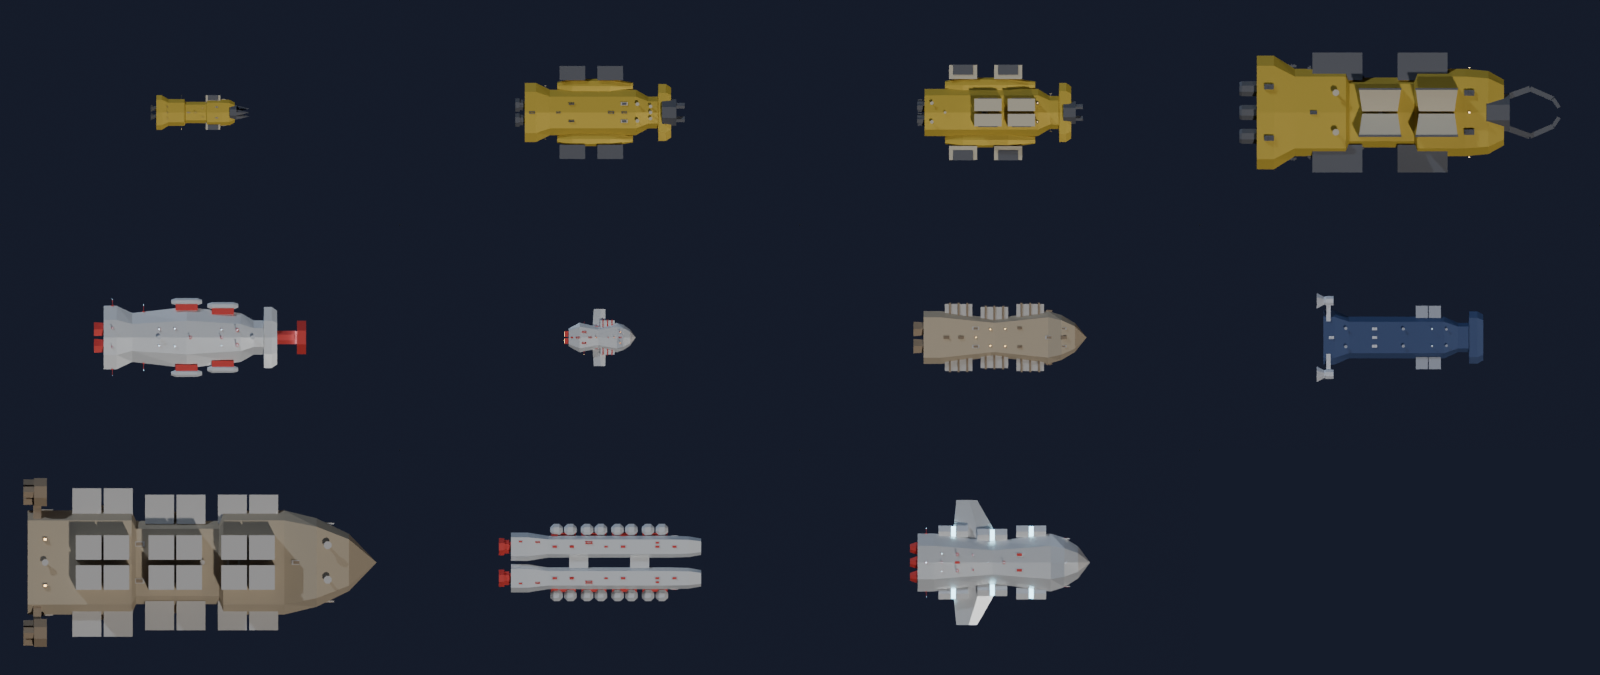
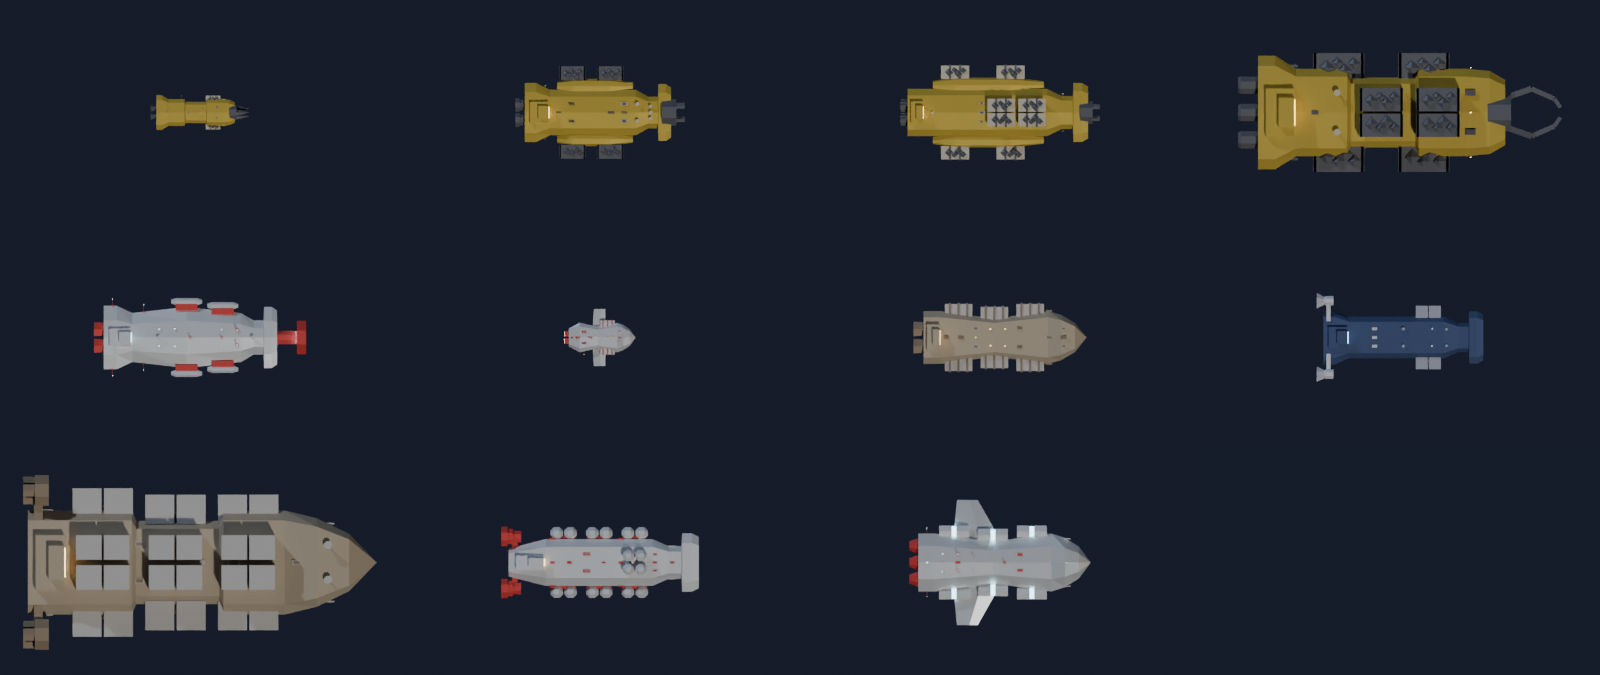
Review points: ore bins with ore, distinct miner_m_hauler, bigger engines, command bridge
- ore_hopper / ore_skip are open bins heaped with faceted ore lumps; on roof sockets
  they are turned upright (rigid move of the side build space, same volume) so the
  ore faces up; hopper rim no longer pokes 2 % out of the build space
- new ModuleDesignTest: every module design inside its build space on side and roof
  sockets, closed meshes; upright bins keep their volume on the roof
- miner_m_hauler: 32 m slim hull with sponson mid pinned. It shared miner_m's seed
  streams (same class, mining and cargo type), so it got the same hulls per seed.
- engines on big models fill more of the tail: miner_l 4.6, hauler_l 6.0, tanker_m 3.6,
  liner_m 2.8; big models still accelerate slower than their medium siblings
- freighters and miners from 20 m (mono/fork) get a command bridge on the tail roof:
  deck house, raised bridge, lit window band. Part of the hull, pure looks (hull stats
  come from the reference hull), ends before the roof module sockets.
- lineup renders and shop stats regenerated; docs updated

Claude-Session: https://claude.ai/code/session_0189xRjiiTMx3apXWGHbTKDT

diff --git a/shipgen/kit/module_designs.py b/shipgen/kit/module_designs.py
@@ -4,6 +4,8 @@ Local frame at the socket: ``n`` = socket normal (out of the hull), ``t`` = alon
 the ship (+Y), ``u`` = up (+Z). Contract (the module's build space):
 n in [-EMBED, DEPTH], t in [-HALF_LENGTH, HALF_LENGTH], u in [-HALF_HEIGHT, HALF_HEIGHT],
 times the socket radius; closed pieces; mirrored sockets give mirrored modules.
+On roof sockets ``u`` points outboard, except for ``UPRIGHT`` designs (open bins), whose
+side-socket build space is turned upright onto the roof instead.
 Materials: 0 accent, 1 glow, 2 cargo.
 """
 
@@ -18,11 +20,17 @@ EMBED, DEPTH, HALF_LENGTH, HALF_HEIGHT = 0.1, 0.9, 1.0, 0.5
 
 
 class Frame:
-    def __init__(self, pos, normal, m):
+    def __init__(self, pos, normal, m, upright=False):
         self.o, self.n, self.m = Vector(pos), Vector(normal).normalized(), m
         self.t = Vector((0, 1, 0))
-        if abs(self.n.z) > 0.9:  # roof socket: "up" of the module points outboard, so mirrored
-            self.u = Vector((1.0 if self.o.x >= 0 else -1.0, 0, 0))  # sockets give mirrored modules
+        if abs(self.n.z) > 0.9:  # roof socket
+            outboard = Vector((1.0 if self.o.x >= 0 else -1.0, 0, 0))
+            if upright:  # open-topped designs stay upright: the side-socket build space, turned so
+                # its n points outboard and its u up, shifted onto the roof (a rigid move: same volume)
+                self.o = self.o + (-outboard * (0.5 * DEPTH - 0.5 * EMBED) + self.n * (HALF_HEIGHT - EMBED)) * m
+                self.n, self.u = outboard, Vector((0, 0, 1))
+            else:  # "up" of the module points outboard, so mirrored sockets give mirrored modules
+                self.u = outboard
         else:
             self.u = Vector((0, 0, 1))
 
@@ -63,14 +71,40 @@ def double_container(bm, f):
     _box(bm, f, -EMBED, 0.3, -0.1, 0.1, -0.2, 0.2, material=ACCENT)  # coupling
 
 
+# ore heaped over the rim of open bins: (n, t, size) of faceted lumps
+ORE_PILE = ((0.35, -0.45, 0.3), (0.25, 0.2, 0.3), (0.5, 0.55, 0.24), (0.52, -0.05, 0.22))
+
+
+def _rock(bm, f, n, t, u, size, material=ACCENT):
+    """Faceted ore lump: an irregular octahedron (closed, 8 triangles), flattened in u."""
+    shape = ((0.9, 0, 0), (-1.0, 0.1, 0), (0, 1.1, 0.05), (0.1, -0.85, 0), (0, 0, 0.6), (0.05, -0.1, -0.5))
+    v = [bm.verts.new(f.p(n + size * a, t + size * b, u + size * c)) for a, b, c in shape]
+    for i, j, k in ((0, 2, 4), (2, 1, 4), (1, 3, 4), (3, 0, 4), (2, 0, 5), (1, 2, 5), (3, 1, 5), (0, 3, 5)):
+        bm.faces.new((v[i], v[j], v[k])).material_index = material
+
+
+def _ore(bm, f, rim_u):
+    for n, t, size in ORE_PILE:
+        _rock(bm, f, n, t, rim_u + 0.1 - 0.2 * size, size)
+
+
 def ore_hopper(bm, f):
-    _box(bm, f, -EMBED, 0.9, -0.9, 0.9, -0.5, 0.45, taper=0.45)
-    _box(bm, f, -EMBED, 0.92, -0.92, 0.92, 0.42, 0.5, material=ACCENT)  # rim
+    """V-shaped funnel bin, open at the top, with ore heaped over the rim."""
+    _box(bm, f, -EMBED, 0.88, -0.9, 0.9, -0.5, 0.25, taper=0.45)
+    _box(bm, f, -EMBED, 0.9, -0.92, 0.92, 0.2, 0.28, material=ACCENT)  # rim
+    for t in (-0.88, 0.88):  # end frames
+        _box(bm, f, -EMBED, 0.9, t - 0.06, t + 0.06, -0.3, 0.28, material=ACCENT)
+    _ore(bm, f, rim_u=0.28)
 
 
 def ore_skip(bm, f):
-    _box(bm, f, -EMBED, 0.88, -0.98, 0.98, -0.45, 0.45)
-    _box(bm, f, 0.2, 0.9, -0.7, 0.7, 0.45, 0.5, material=ACCENT)  # hatch
+    """Mining skip: a tub with sloped ends, strapped, carrying ore."""
+    n0, n1, u0, u1 = -EMBED, 0.84, -0.45, 0.22
+    _hexa(bm, f, [(n0, -0.65, u0), (n1, -0.65, u0), (n1, 0.65, u0), (n0, 0.65, u0),
+                  (n0, -0.98, u1), (n1, -0.98, u1), (n1, 0.98, u1), (n0, 0.98, u1)], CARGO)
+    for t in (-0.35, 0.35):  # straps
+        _box(bm, f, -EMBED, 0.9, t - 0.07, t + 0.07, u0 - 0.03, u1 + 0.04, material=ACCENT)
+    _ore(bm, f, rim_u=u1)
 
 
 def _cyl(bm, f, n, u, radius, t0, t1, sides=8, cones=True, material=CARGO):
@@ -123,5 +157,9 @@ def designs_of(kind: str) -> list[int]:
     return [i for i, name in enumerate(NAMES) if KIND[name] == kind]
 
 
+UPRIGHT = {"ore_hopper", "ore_skip"}  # open bins: kept open side up on roof sockets too
+
+
 def build(bm, design: int, pos, normal, radius: float) -> None:
-    DESIGNS[design % len(DESIGNS)](bm, Frame(pos, normal, radius))
+    fn = DESIGNS[design % len(DESIGNS)]
+    fn(bm, Frame(pos, normal, radius, upright=fn.__name__ in UPRIGHT))

diff --git a/shipgen/kit/__init__.py b/shipgen/kit/__init__.py
@@ -252,7 +252,7 @@ def _build_once(p, cls, stream, design, engine_design, rig_design, module_design
 
     hull_bm = bmesh.new()
     parts_bm = bmesh.new()  # engines, pylons, rigs, modules (material 0 accent, 1 glow, 2 cargo)
-    hull = _build_hull(p, design, fr, hull_bm, parts_bm)
+    hull = _build_hull(p, cls, design, fr, hull_bm, parts_bm)
     rig_design, module_design, instances = _place_parts(p, stream, design, fr, hull, parts_bm, engine_design,
                                                         rig_design, module_design)
     warnings = hull.warnings
@@ -315,7 +315,7 @@ def _build_once(p, cls, stream, design, engine_design, rig_design, module_design
     return ship
 
 
-def _build_hull(p, design: Design, fr: _Frame, hull_bm, parts_bm) -> _Hull:
+def _build_hull(p, cls, design: Design, fr: _Frame, hull_bm, parts_bm) -> _Hull:
     """Loft the bodies and their add-ons; collect sockets, obstacles and collision pieces."""
     length, body_height, chamfer, ridge, module = fr.length, fr.body_height, fr.chamfer, fr.ridge, fr.module
     n_eng, r_req = p["engines"]["count"], 0.5 * p["engines"]["size"]
@@ -398,6 +398,9 @@ def _build_hull(p, design: Design, fr: _Frame, hull_bm, parts_bm) -> _Hull:
         else:
             h.sockets += _side_sockets(lay, length, module, 0.0)
         h.sockets += _top_sockets(lay, length, module, chamfer, ridge)
+        if cls in BRIDGE_CLASSES and length >= BRIDGE_MIN_LENGTH:
+            for fn, box in _bridge(hull_bm, lay, fr):
+                add_on(h, hull_bm, fn, box)
         if design.plan == "fork":
             pw = 0.3 * front.half_width
             y0, y1 = lay.y_front - 0.08 * length, lay.y_front + 0.22 * length
@@ -415,6 +418,33 @@ def _build_hull(p, design: Design, fr: _Frame, hull_bm, parts_bm) -> _Hull:
     for i, sk in enumerate(h.sockets):
         sk.name = sk.name or f"Socket_{sk.kind}_{i}"
     return h
+
+
+BRIDGE_CLASSES = {"freighter", "miner"}
+BRIDGE_MIN_LENGTH = 20.0
+
+
+def _bridge(hull_bm, lay: HullLayout, fr: _Frame):
+    """Command bridge on the tail roof, like a cargo ship's: a deck house with a raised bridge
+    and a lit window band facing forward. Pure looks (hull stats come from the reference hull);
+    it stays behind the mid section, so roof modules never reach it. Yields (builder, obstacle)."""
+    y_a = lay.y_mid[0]
+    span = y_a - lay.y_tail
+    y0, y1 = lay.y_tail + 0.2 * span, y_a - 0.05 * span
+    sts = [section_at(lay, y, fr.length) for y in (y0, 0.5 * (y0 + y1), y1)]
+    roof_w = min(st.half_width for st in sts) * (1.0 - 0.7 * fr.chamfer)
+    roof_z = min(st.top for st in sts) * (1.0 - 0.6 * fr.ridge)
+    sink = 0.05 * fr.body_height  # sits into the roof, so no gap shows on ridged roofs
+    h1, h2 = 0.24 * fr.body_height, 0.22 * fr.body_height
+    deck = (Vector((0, 0.5 * (y0 + y1), roof_z + 0.5 * (h1 - sink))), Vector((1.3 * roof_w, y1 - y0, h1 + sink)))
+    yb0 = y0 + 0.45 * (y1 - y0)  # the raised bridge sits on the front of the deck house
+    top_z = roof_z + h1 - 0.5 * sink
+    house = (Vector((0, 0.5 * (yb0 + y1), top_z + 0.5 * h2)), Vector((0.8 * roof_w, y1 - yb0, h2 + 0.5 * sink)))
+    window = (Vector((0, y1 + 0.01 * span, top_z + 0.6 * h2)), Vector((0.7 * roof_w, 0.04 * span, 0.3 * h2)))
+    applies = {"module", "engine", "wing", "rig"}
+    for (c, size), mat in ((deck, 0), (house, 0), (window, 1)):
+        yield (lambda c=c, size=size, mat=mat: shapes.box(hull_bm, c, size, material=mat),
+               Box("bridge_house", c - size / 2, c + size / 2, applies))
 
 
 def _place_parts(p, stream, design, fr: _Frame, hull: _Hull, parts_bm, engine_design, rig_design, module_design):
@@ -496,7 +526,7 @@ def _role_objects(p, coll, root, hull_bm, parts_bm, instances, pylon_verts) -> l
     for inst in instances:
         if inst.live:
             role_verts.setdefault(ROLE_OF[inst.kind], set()).update(v.index for v in inst.verts)
-    pieces = [("Ship_Hull", "hull", hull_bm, ("hull",))]
+    pieces = [("Ship_Hull", "hull", hull_bm, ("hull", "glow"))]  # glow: bridge windows
     for role, idx in role_verts.items():
         if not idx:
             continue

diff --git a/tests/test_kit.py b/tests/test_kit.py
@@ -42,6 +42,49 @@ class EngineDesignTest(unittest.TestCase):
 
 
 @unittest.skipIf(bpy is None, "requires Blender (bpy)")
+class ModuleDesignTest(unittest.TestCase):
+    def build(self, i, pos, normal):
+        from shipgen.kit import module_designs as md
+
+        bm = bmesh.new()
+        md.build(bm, i, pos, normal, 1.0)
+        bmesh.ops.recalc_face_normals(bm, faces=bm.faces)
+        return bm
+
+    def test_designs_honour_the_build_space(self):
+        """Side socket (+X) and roof socket (+Z, right of the centre line): closed, inside the box."""
+        from shipgen.kit import module_designs as md
+
+        for i, name in enumerate(md.NAMES):
+            for where, pos, normal in (("side", (0, 0, 0), (1, 0, 0)), ("roof", (0.5, 0, 0), (0, 0, 1))):
+                with self.subTest(design=name, socket=where):
+                    bm = self.build(i, pos, normal)
+                    self.assertTrue(all(e.is_manifold for e in bm.edges), "open edges")
+                    self.assertFalse(any(f.calc_area() <= 1e-9 for f in bm.faces), "degenerate faces")
+                    for v in bm.verts:
+                        x, y, z = v.co
+                        out, across = (x, z) if where == "side" else (z, x - 0.5)
+                        self.assertGreaterEqual(out, -md.EMBED - 1e-6)
+                        self.assertLessEqual(out, md.DEPTH + 1e-6)
+                        self.assertLessEqual(abs(y), md.HALF_LENGTH + 1e-6)
+                        self.assertLessEqual(abs(across), md.HALF_HEIGHT + 1e-6)
+                    bm.free()
+
+    def test_upright_bins_keep_their_volume_on_the_roof(self):
+        """Stats are normalised on side sockets, so a roof bin must hold exactly as much."""
+        from shipgen.kit import module_designs as md
+
+        for name in md.UPRIGHT:
+            i = md.NAMES.index(name)
+            side, roof = self.build(i, (0, 0, 0), (1, 0, 0)), self.build(i, (0.5, 0, 0), (0, 0, 1))
+            self.assertAlmostEqual(side.calc_volume(), roof.calc_volume(), places=5)
+            top = max(v.co.z for f in roof.faces if f.material_index == md.ACCENT for v in f.verts)
+            self.assertGreater(top, 0.8, f"{name}: ore should heap up on top of a roof bin")
+            side.free()
+            roof.free()
+
+
+@unittest.skipIf(bpy is None, "requires Blender (bpy)")
 class KitShipTest(unittest.TestCase):
     @classmethod
     def setUpClass(cls):
@@ -141,6 +184,16 @@ class KitShipTest(unittest.TestCase):
         everything = self.kit.Box("test", Vector((-1e3,) * 3), Vector((1e3,) * 3), {"engine"})
         ship.obstacles.append(everything)
         self.assertIn(("engine", "test"), self.kit.find_conflicts_after(ship))
+
+    def test_command_bridge_on_long_mono_hulls_only(self):
+        def windows(ship):
+            hull = next(o for o in ship.parts if o["shipgen_role"] == "hull")
+            return sum(1 for poly in hull.data.polygons if poly.material_index == 1)
+
+        self.assertGreater(windows(self.kit.build(self.base, plan="mono")), 0)
+        self.assertEqual(windows(self.kit.build(self.base, plan="twin")), 0)
+        small = dict(self.base, hull=dict(self.base["hull"], length=14))
+        self.assertEqual(windows(self.kit.build(small, plan="mono")), 0)
 
     def test_no_engines_is_not_a_fit_issue(self):
         ship = self.kit.build(dict(self.base, engines=dict(self.base["engines"], count=0)))

diff --git a/docs/shop_stats.md b/docs/shop_stats.md
@@ -3,16 +3,16 @@
 | corvette_11 | corvette | 61.16 | 366.06 | 7.48 | 4.2 | 27780 | 249.65 | 0.0 | 0.0 | 0 | none | 0.0 | 0.0 |
 | fighter_42 | fighter | 11.99 | 6.27 | 26.7 | 76.54 | 870 | 0.0 | 0.0 | 0.0 | 0 | none | 0.0 | 0.0 |
 | freighter_7 | freighter | 40.37 | 314.2 | 17.91 | 15.25 | 12680 | 919.04 | 0.0 | 0.0 | 0 | none | 0.0 | 0.0 |
-| hauler_l_204 | freighter | 61.41 | 1068.68 | 6.94 | 3.88 | 27159 | 5143.3 | 0.0 | 0.0 | 0 | none | 0.0 | 0.0 |
+| hauler_l_204 | freighter | 61.41 | 1097.81 | 8.03 | 4.5 | 27159 | 5143.3 | 0.0 | 0.0 | 0 | none | 0.0 | 0.0 |
 | hauler_m_202 | freighter | 28.68 | 106.19 | 9.71 | 11.64 | 6285 | 465.98 | 0.0 | 0.0 | 0 | none | 0.0 | 0.0 |
 | hauler_m_fast_203 | freighter | 28.13 | 82.29 | 24.86 | 30.39 | 5335 | 273.38 | 0.0 | 0.0 | 0 | none | 0.0 | 0.0 |
 | hauler_s_201 | shuttle | 11.79 | 10.99 | 15.69 | 45.77 | 1236 | 25.93 | 0.0 | 0.0 | 0 | none | 0.0 | 0.0 |
 | interceptor_3 | interceptor | 14.18 | 4.91 | 24.3 | 58.93 | 585 | 0.0 | 0.0 | 0.0 | 0 | none | 0.0 | 0.0 |
-| liner_m_206 | shuttle | 30.33 | 129.3 | 8.2 | 9.29 | 6224 | 206.74 | 0.0 | 0.0 | 16 | none | 0.0 | 0.0 |
+| liner_m_206 | shuttle | 30.33 | 132.6 | 10.88 | 12.33 | 6224 | 206.74 | 0.0 | 0.0 | 16 | none | 0.0 | 0.0 |
 | miner_gas_105 | miner | 30.51 | 130.95 | 7.32 | 8.25 | 8842 | 0.0 | 235.19 | 72.35 | 0 | scoop | 138.65 | 5.09 |
-| miner_l_104 | miner | 43.49 | 599.9 | 4.9 | 3.88 | 22150 | 0.0 | 1955.09 | 0.0 | 0 | claw | 356.07 | 9.97 |
-| miner_m_102 | miner | 25.74 | 95.33 | 8.1 | 10.82 | 6798 | 0.0 | 244.15 | 0.0 | 0 | laser | 96.62 | 47.84 |
-| miner_m_hauler_103 | miner | 25.8 | 99.26 | 6.63 | 8.83 | 6986 | 0.0 | 337.44 | 0.0 | 0 | laser | 71.49 | 41.15 |
-| miner_s_101 | miner | 13.8 | 17.62 | 13.41 | 33.41 | 2101 | 0.0 | 35.26 | 0.0 | 0 | drill | 30.86 | 2.55 |
+| miner_l_104 | miner | 43.49 | 596.84 | 6.52 | 5.15 | 22150 | 0.0 | 1779.16 | 0.0 | 0 | claw | 356.07 | 9.97 |
+| miner_m_102 | miner | 25.74 | 93.96 | 8.22 | 10.97 | 6798 | 0.0 | 229.53 | 0.0 | 0 | laser | 96.62 | 47.84 |
+| miner_m_hauler_103 | miner | 31.76 | 112.35 | 5.86 | 6.34 | 8486 | 0.0 | 347.05 | 0.0 | 0 | laser | 71.49 | 41.15 |
+| miner_s_101 | miner | 13.8 | 17.52 | 13.49 | 33.6 | 2101 | 0.0 | 34.15 | 0.0 | 0 | drill | 30.86 | 2.55 |
 | shuttle_5 | shuttle | 9.15 | 5.71 | 17.53 | 65.82 | 818 | 10.95 | 0.0 | 0.0 | 0 | none | 0.0 | 0.0 |
-| tanker_m_205 | freighter | 33.46 | 112.77 | 11.16 | 11.47 | 6813 | 354.97 | 0.0 | 97.99 | 0 | none | 0.0 | 0.0 |
+| tanker_m_205 | freighter | 33.46 | 116.89 | 13.63 | 14.0 | 6813 | 354.97 | 0.0 | 91.88 | 0 | none | 0.0 | 0.0 |

diff --git a/CLAUDE.md b/CLAUDE.md
@@ -49,7 +49,9 @@ Presets are the ship models a player can buy: size tiers × loadouts (`miner_s/m
 combat/generic ones. The seed only
 changes the look within a model. Every preset must generate without warnings
 (`test_presets_generate_cleanly`); a kit model whose loadout doesn't fit any hull for some seeds
-needs fewer/smaller modules (see `hauler_l`). `kit.*` in a preset pins blocks/designs.
+needs fewer/smaller modules (see `hauler_l`). `kit.*` in a preset pins blocks/designs
+(`miner_m_hauler` pins the sponson mid so it doesn't share `miner_m`'s hulls: models with the
+same class, mining and cargo type share the seed streams).
 
 ## Blender versions
 
@@ -72,14 +74,17 @@ needs fewer/smaller modules (see `hauler_l`). `kit.*` in a preset pins blocks/de
 - `shipgen/generator/` – `__init__.py` (`generate`, `Ship`, `clear`), `hull.py` (class profiles
   incl. cargo zone / hold / armor, `HullShape` that other parts attach to), `wings.py`,
   `engines.py`, `mining.py` (nose rigs), `cargo.py` (modules in symmetric lanes),
-  `shapes.py` (low-poly primitives), `materials.py`. Planned: `greebles.py`.
+  `shapes.py` (low-poly primitives), `materials.py` (classic only; greebles are kit-only).
 - `shipgen/stats.py` – gameplay stats from geometry (see above).
 - `shipgen/kit/` – the default builder: `hull_kit.py` (sections with a standard joint, body plans
   mono/twin/fork, class kits), `engine_designs.py` / `rig_designs.py` / `module_designs.py`
-  (10 each, unit size), `greeble_designs.py` (6, look only), `__init__.py` (`build`: sockets, placement, collision check + resolver,
-  triangle budget, role objects, sockets as empties), `collision.py` (convex `-convcolonly`
+  (10 each, unit size), `greeble_designs.py` (6, look only), `__init__.py` (`build` ->
+  `_build_hull` (bodies, add-ons incl. the command bridge, sockets) -> `_place_parts` ->
+  collision check + resolver -> triangle budget -> greebles -> role objects, sockets as empties),
+  `collision.py` (convex `-convcolonly`
   shapes for Godot), `normalize.py` (stat normalisation). Concept: `docs/parts_kit.md`.
-  Every new part design must honour the unit contract in its module docstring; new hull
+  Every new part design must honour the unit contract in its module docstring
+  (`EngineDesignTest`, `ModuleDesignTest` check it); new hull
   blocks must also be added to `params.KIT_*` (test checks it).
 - `shipgen/metrics.py` – top-view silhouette metrics (numpy rasteriser).
 - `shipgen/export.py` – `.glb`, `.blend`, Cycles previews (`three_quarter` and orthographic `top`).

diff --git a/docs/parts_kit.md b/docs/parts_kit.md
@@ -73,6 +73,8 @@ damit später Teile tauschen (Triebwerk nachrüsten), ohne neu zu generieren.
   an den Kästen. Reihenfolge: erst Seitensockel, dann **Dachsockel** (Mono: zwei gespiegelte
   Reihen auf dem Dach, wenn es breit genug ist; Twin: eine Reihe pro Rumpf). Auf dem Dach
   zeigt das „oben“ des Moduls nach außen, damit gespiegelte Sockel gespiegelte Module tragen.
+  Ausnahme: offene Erzbehälter (`UPRIGHT`: Hopper, Skip, mit sichtbarem Erzhaufen) werden auf
+  dem Dach als Ganzes aufgerichtet – Öffnung nach oben, starr verschoben, also gleiches Volumen.
 
 ## 4. Kollisionen
 
@@ -95,11 +97,15 @@ Hinweis für Godot: `-convcolonly`-Nodes werden beim Import zu StaticBody3D mit
 CollisionShape3D; für ein bewegtes Schiff die CollisionShape3D-Kinder unter den eigenen
 RigidBody3D/CharacterBody3D hängen (oder im Import-Skript umhängen).
 
-## 4b. Flügel und Greebles
+## 4b. Flügel, Brücke und Greebles
 
 - **Flügel** kommen aus `generator/wings.add_wings` (gleiche Geometrie wie im classic-Generator)
   und docken an `wing`-/`fin`-Sockeln an; Kollisionen mit Modulen, Kästen, Zinken oder
   Triebwerken zählen als Passproblem → anderer Rumpf.
+- **Brücke**: Frachter und Miner ab 20 m (Mono/Gabel) bekommen auf dem Heckdach ein
+  Deckshaus mit erhöhter Brücke und leuchtendem Fensterband (wie ein Frachtschiff). Es gehört
+  zum Rumpf, ist reine Optik (Rumpfwerte kommen vom Referenzrumpf) und endet vor der Mitte,
+  wo die Dachmodule sitzen.
 - **Greebles** (`kit/greeble_designs.py`, 6 Designs: Lüftung, Antenne, Schüssel, Platte,
   Leitungen, Licht): freie Dach-/Seitenplätze, gespiegelt, `greeble_density` steuert die Menge,
   der Seed wählt 3 Designs als Stil des Schiffs. Sie werden nur platziert, wo sie nichts

diff --git a/README.md b/README.md
@@ -81,7 +81,7 @@ Exit-Code ist bei Fehlern ungleich 0.
 
 | Linie | Modelle |
 |---|---|
-| Bergbau | `miner_s`, `miner_m`, `miner_m_hauler` (mehr Erz, weniger Abbau), `miner_l`, `miner_gas` (Gas-/Eisschaufel, Tanks) |
+| Bergbau | `miner_s`, `miner_m`, `miner_m_hauler` (länger, Seitenkästen, mehr Erz, weniger Abbau), `miner_l`, `miner_gas` (Gas-/Eisschaufel, Tanks) |
 | Fracht & Transport | `hauler_s`, `hauler_m`, `hauler_m_fast` (schneller, weniger Fracht), `hauler_l`, `tanker_m`, `liner_m` (Passagiere) |
 | Kampf & Sonstiges | `fighter`, `interceptor`, `corvette`, `shuttle`, `freighter` |
 
